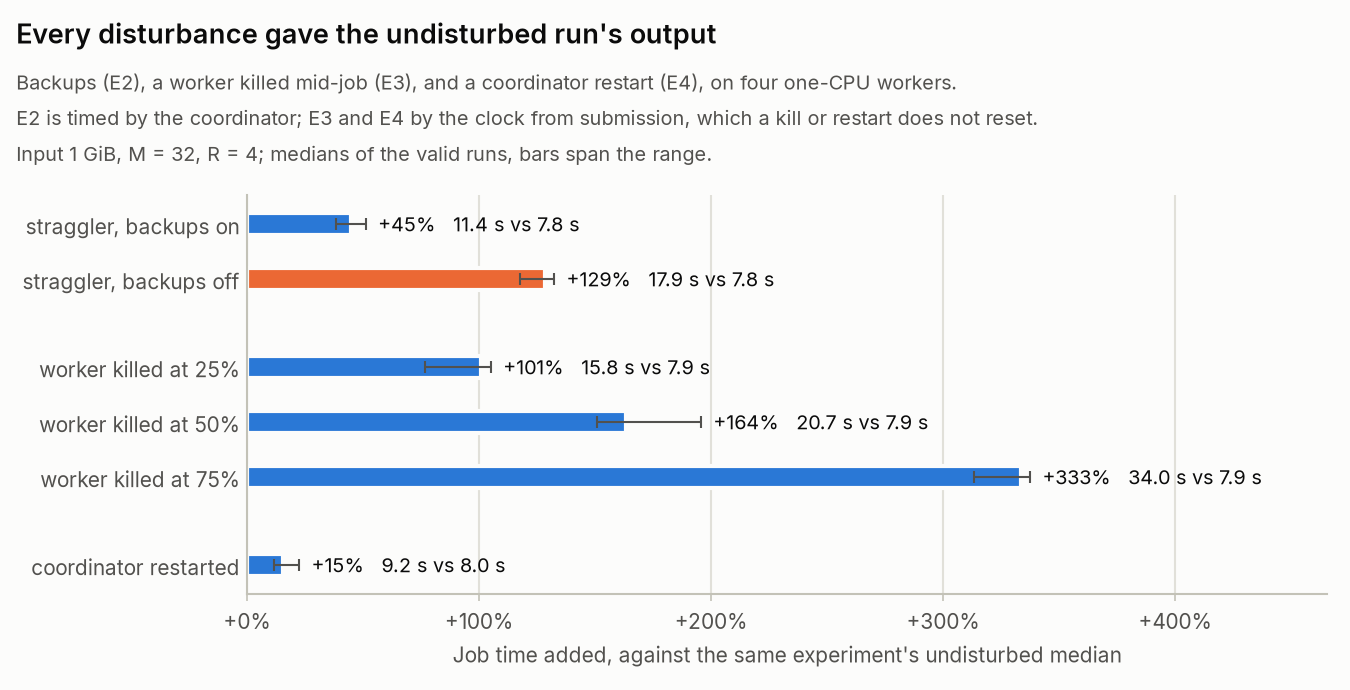
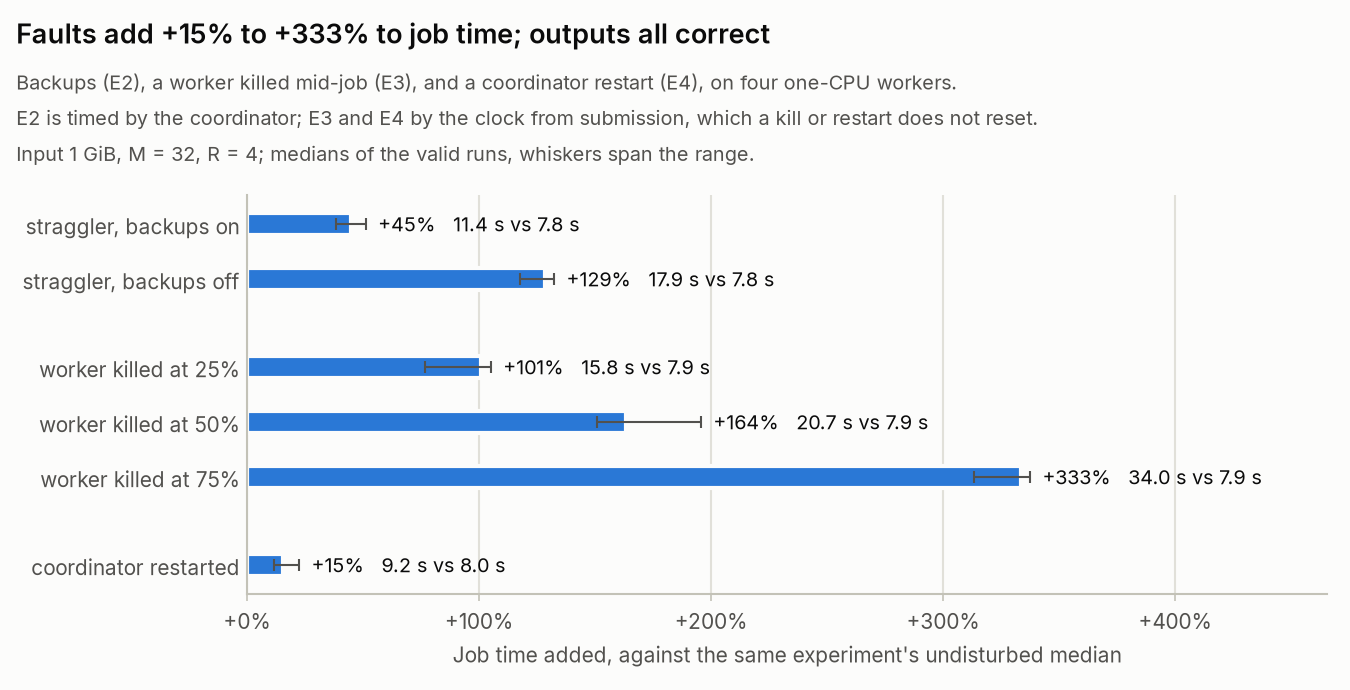
Bench: redraw the evaluation figures; CHANGELOG for #357

Changed region(s): [[0.0, 0.0304, 0.5911, 0.0913], [0.1867, 0.3652, 0.4044, 0.4261], [0.3733, 0.213, 0.56, 0.2435]]

diff --git a/CHANGELOG.md b/CHANGELOG.md
@@ -19,7 +19,7 @@ cut a release.
   evaluation archives against their `SHA256SUMS`, redraws every figure in
   `bench/evaluation/` from them in a temporary directory, and compares each
   with the committed PNG pixel by pixel. It needs matplotlib, so it runs on
-  the experiment VM with `PLOT_PYTHON`, not in `make check` (#NUM).
+  the experiment VM with `PLOT_PYTHON`, not in `make check` (#357).
 - Lint: `make md-lint` runs `scripts/check-dark-charts.py`, which fails if
   a Markdown page shows a bench chart without its dark variant. It runs in
   the lint job, not the Python tests, so a Markdown-only change still runs
@@ -102,6 +102,13 @@ cut a release.
 
 ### Changed
 
+- Bench figures: clearer titles and labels in `bench/evaluation/`. E0's
+  title gives every program's speed-up on four workers; the faults summary
+  draws every bar in one color and its title gives the range of job time
+  added; E3 and E4 say their job time runs from submission; E3's "worker
+  lost" band is marked approximate; E7's backup counts are labeled medians;
+  range marks are called whiskers; and E4's two bars are as thin as E2's
+  four (#357).
 - Agent tooling: the `interpreting-bench-results` skill states which
   experiments report wall time, which commit the reported E0 ran at, how
   each experiment orders its runs, and that `valid` is the only record of
@@ -112,7 +119,8 @@ cut a release.
   and its `preflight.sh` names the PR's likely number so the CHANGELOG can
   cite it before the PR opens, as `AGENTS.md` now allows. `scripts/README.md`
   lists `check-dark-charts.py`, `check-figures.py`, `ci-go-job.sh` and
-  `install-tool.sh` (#NUM).
+  `install-tool.sh`. `preflight.sh` counts discussions, which share the
+  number sequence, when it predicts the PR's number (#357).
 - CI: the `go` job runs on three nodes at once (`parallelism: 3`), still
   one `go` check: `scripts/ci-go-job.sh` gives the race tests, the coverage
   tests, and sh-lint, go-lint and py-e2e a node each, the same make targets
